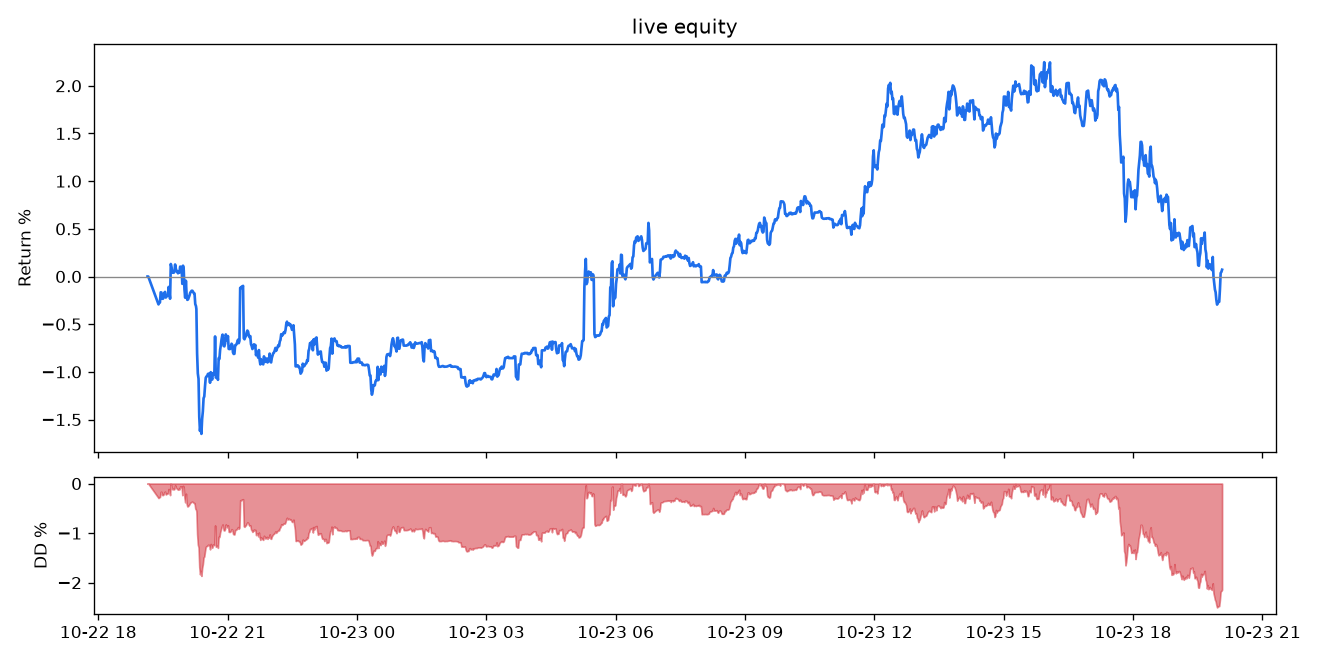
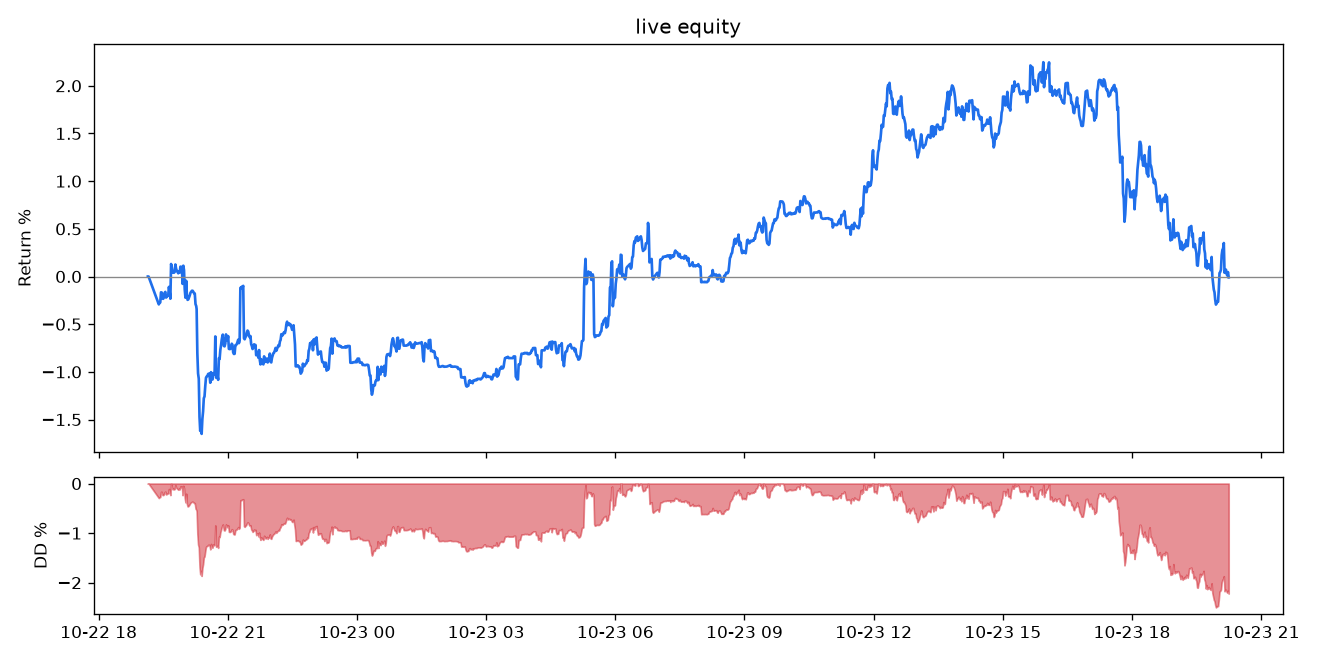
logs 2026-10-23 20:14 (live)

diff --git a/logs/report.md b/logs/report.md
@@ -35,24 +35,31 @@
 
 ## LIVE
 
-- Equity: **5,003,571 TMN** (+0.071%)
+- Equity: **4,999,546 TMN** (-0.009%)
 - Max drawdown: **2.501%**
-- Traded volume: 0 TMN
+- Traded volume: 118,429 TMN
 
 ![equity](equity_live.png)
 
-- AI supervisor decisions: 75 (sources: {'llm:boxapi': 75})
-- Events: {'coin_skipped': 427, 'live_self_test': 61, 'cancel_all': 9, 'startup': 9, 'regime': 9, 'policy': 75, 'sleeve_order': 171, 'quote': 2109, 'buy_blocked': 5405, 'buy_unblocked': 5357, 'state_restored': 60, 'sleeve_fill': 10, 'orphan_adopted': 1}
+- Market maker: **1 fills** (1 buys, 0 sells), 0 risk exits, realised PnL **0 TMN**
+
+| coin | buys | sells | exits | realised PnL TMN |
+|---|---|---|---|---|
+| PENGU | 1 | 0 | 0 | 0 |
+
+- AI supervisor decisions: 76 (sources: {'llm:boxapi': 76})
+- Events: {'coin_skipped': 434, 'live_self_test': 62, 'cancel_all': 10, 'startup': 10, 'regime': 10, 'policy': 76, 'sleeve_order': 171, 'quote': 2127, 'buy_blocked': 5429, 'buy_unblocked': 5377, 'state_restored': 61, 'sleeve_fill': 10, 'orphan_adopted': 1, 'fill': 1}
 
 ### Latest AI decision
 ```json
 {
   "markets": {
-    "CHZ": 1.0,
-    "AAVE": 1.2
+    "SUI": 0.9,
+    "CHZ": 0.9,
+    "PENGU": 1.3
   },
   "pause": false,
-  "reasoning": "Select CHZ because its Toman spread is 190 bps (>80) and USDT/TMN spread is 430 bps, with low fv_vol 73 bps (calm) so we quote relatively tight at h=1.0%. Select AAVE because spread 125.5 bps and USDT spread 87.7 bps are attractive but fv_vol is higher (173 bps) so we widen to h=1.2% to protect vs adverse selection. Avoid DOT, HYPE and IMX because their books are blocked/broken (DOT: \"Toman spread > 5%: book broken\"; HYPE/IMX show sliding-book blocks). Sleeves: keep rial at 1.0 and beta at 0.8 because USDT/TMN 48h +2.11% gives full exposure cap 1.0, rial currently scale 1.0 (value 2,592,742 TMN, return -0.85%) and beta is already scaled to 0.8 (value 1,861,589 TMN, return +1.89%), so we maintain the current prudent exposures and keep beta assets as PEPE/ADA/LINK per the sleeve weights and momentum.",
+  "reasoning": "I pick SUI (spread_bps 176.6, vol24h 3,890M TMN, fv_vol_bps 70.5) because its Toman spread is wide and fair-value volatility is low so we can quote relatively tight at h=0.9%. I pick CHZ (spread_bps 202.0, fv_vol_bps 80.9) for similar reasons (wide spread, low fv volatility) and set h=0.9% to be competitive. I include PENGU (spread_bps 289.5, vol24h 1,680M, fv_vol_bps 250.7) as a third market but use a wider h=1.3% because fv_vol is high. I avoid markets with buy_blocked or broken books (DOT flagged book broken; S, BNB, GALA, FIL show sliding blocks) and ignore very tiny or extremely noisy names (IMX). For sleeves I keep rial at full exposure 1.0 because USDT/TMN 48h +1.09% (regime cap=1.0) and the rial sleeve is already scaled to 1.0; I keep beta at 0.8 (current scale) and keep its existing assets PEPE/ADA/LINK given beta return 1.51% and moderate pnl, avoiding changing exposure into any signs of rial-strengthening or market shocks.",
   "tool_trace": [],
   "source": "llm:boxapi"
 }
